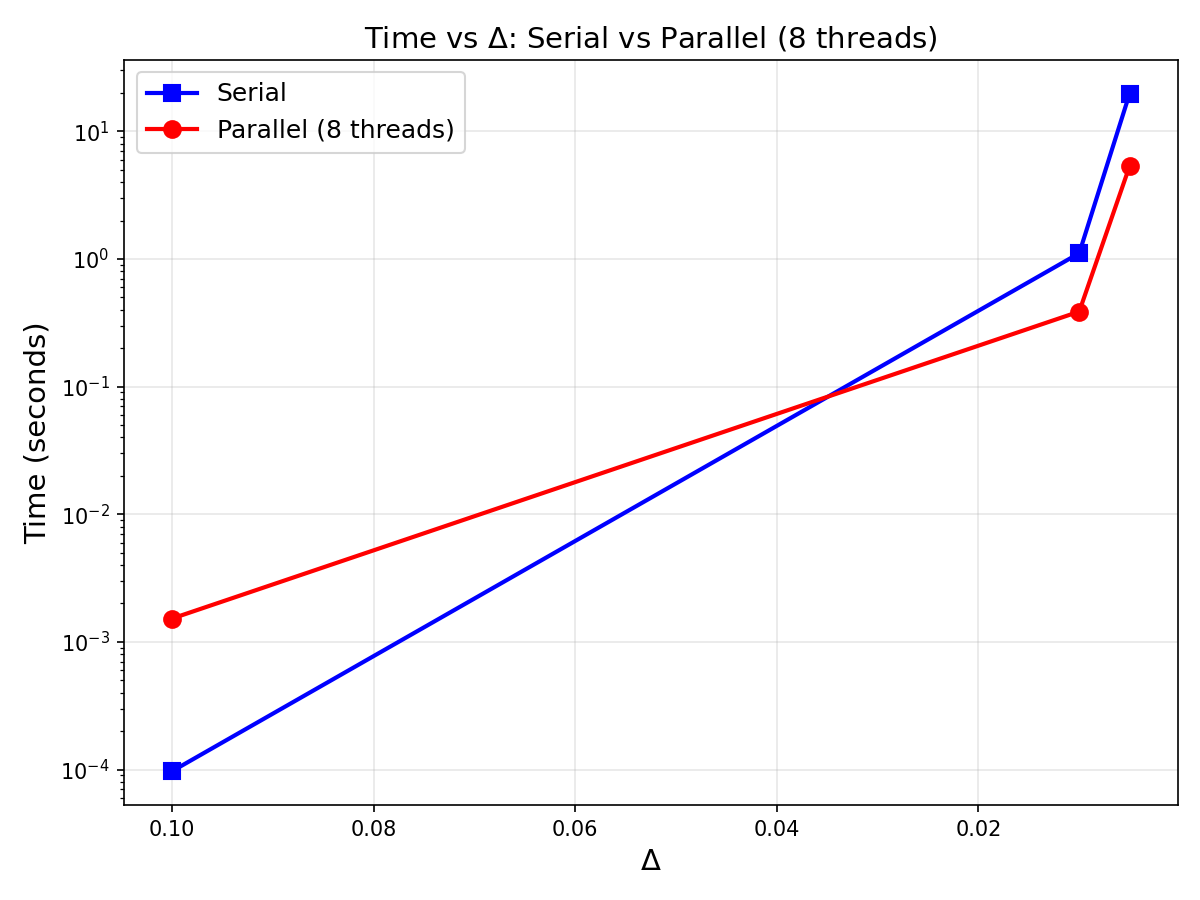
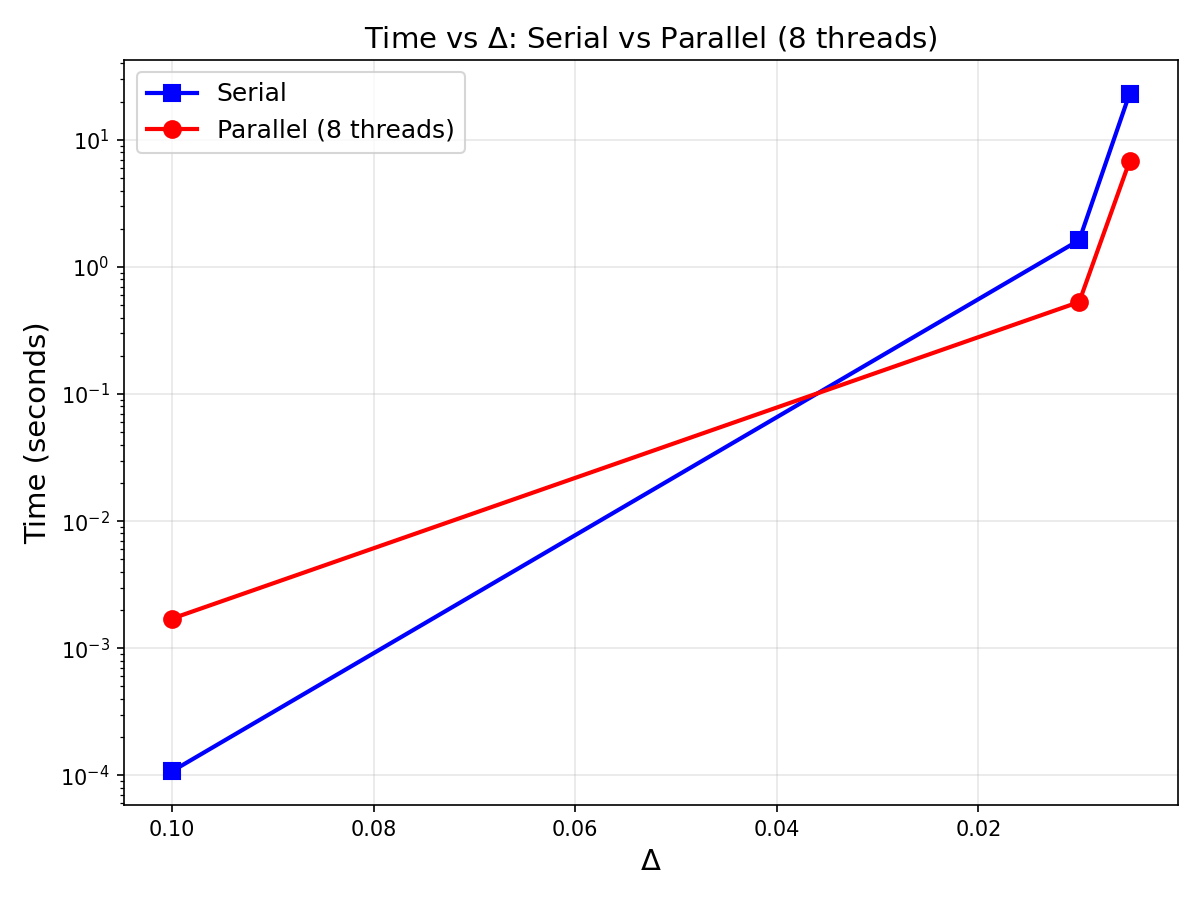
using chrono for serial

diff --git a/assignment/a1/q2/q2d.cpp b/assignment/a1/q2/q2d.cpp
@@ -1,5 +1,5 @@
-// q2d.cpp - Jacobi Solver Thread Scaling Study (Δ = 0.005)
-// Part (d): Time vs Number of Threads (p = 1(serial), 2, 4, 8, 16)
+// Jacobi Solver Thread Scaling Study (Δ = 0.005)
+// Part (d): Time vs Number of Threads (p = 2, 4, 8, 16)
 //
 // Compile: g++ -O2 -fopenmp q2d.cpp -o q2d
 // Run:     ./q2d
@@ -8,73 +8,9 @@
 #include <fstream>
 #include <cmath>
 #include <vector>
-#include <ctime>
 #include <omp.h>
 
 using namespace std;
-
-// Serial Jacobi solver (no OpenMP at all)
-int jacobi_serial(double delta, double &elapsed_time) {
-    int N = (int)(2.0 / delta) + 1;
-    double x_min = -1.0, y_min = -1.0;
-    double delta2_over4 = delta * delta / 4.0;
-
-    vector<vector<double>> phi(N, vector<double>(N, 0.0));
-    vector<vector<double>> phi_new(N, vector<double>(N, 0.0));
-    vector<vector<double>> q(N, vector<double>(N, 0.0));
-    vector<vector<double>> phi_exact(N, vector<double>(N, 0.0));
-
-    for (int i = 0; i < N; i++) {
-        double x = x_min + i * delta;
-        for (int j = 0; j < N; j++) {
-            double y = y_min + j * delta;
-            q[i][j] = 2.0 * (2.0 - x * x - y * y);
-            phi_exact[i][j] = (x * x - 1.0) * (y * y - 1.0);
-        }
-    }
-
-    int max_iter = 1000000;
-    int iter = 0;
-    int converged_flag = 0;
-
-    clock_t t_start = clock();
-
-    for (iter = 1; iter <= max_iter; iter++) {
-        for (int i = 1; i < N - 1; i++) {
-            for (int j = 1; j < N - 1; j++) {
-                phi_new[i][j] = 0.25 * (phi[i + 1][j] + phi[i - 1][j] +
-                                         phi[i][j + 1] + phi[i][j - 1]) +
-                                delta2_over4 * q[i][j];
-            }
-        }
-
-        converged_flag = 1;
-        for (int i = 1; i < N - 1 && converged_flag; i++) {
-            for (int j = 1; j < N - 1 && converged_flag; j++) {
-                double exact_val = phi_exact[i][j];
-                if (fabs(exact_val) > 1e-12) {
-                    if (fabs((phi_new[i][j] - exact_val) / exact_val) > 0.01)
-                        converged_flag = 0;
-                } else {
-                    if (fabs(phi_new[i][j] - exact_val) > 1e-12)
-                        converged_flag = 0;
-                }
-            }
-        }
-
-        for (int i = 1; i < N - 1; i++) {
-            for (int j = 1; j < N - 1; j++) {
-                phi[i][j] = phi_new[i][j];
-            }
-        }
-
-        if (converged_flag) break;
-    }
-
-    clock_t t_end = clock();
-    elapsed_time = (double)(t_end - t_start) / CLOCKS_PER_SEC;
-    return iter;
-}
 
 // Parallel Jacobi solver (OpenMP with specified threads)
 int jacobi_parallel(double delta, int num_threads, double &elapsed_time) {
@@ -150,13 +86,7 @@ int main() {
     outfile << scientific;
     outfile.precision(12);
 
-    // Serial run
-    double t_serial;
-    int iter_serial = jacobi_serial(delta, t_serial);
-    cout << "Serial: " << iter_serial << " iterations, " << t_serial << " s" << endl;
-    outfile << 1 << " " << t_serial << endl;
-
-    // Parallel runs
+    // Parallel runs only: p = 2, 4, 8, 16
     for (int t = 0; t < num_configs; t++) {
         double t_par;
         int iter_par = jacobi_parallel(delta, threads[t], t_par);

diff --git a/assignment/a1/q2/q2c.cpp b/assignment/a1/q2/q2c.cpp
@@ -1,4 +1,4 @@
-// q2c.cpp - Jacobi Solver for Poisson Equation (Serial + OpenMP Parallel)
+// Jacobi Solver for Poisson Equation (Serial + OpenMP Parallel)
 // Part (b): OpenMP Jacobi program
 // Part (c): Verification + Timing for Δ = 0.1, 0.01, 0.005
 //
@@ -12,7 +12,7 @@
 #include <fstream>
 #include <cmath>
 #include <vector>
-#include <ctime>
+#include <chrono>
 
 #ifdef _OPENMP
 #include <omp.h>
@@ -47,11 +47,11 @@ int jacobi_solve(double delta, double &elapsed_time,
     int iter = 0;
     int converged_flag = 0;
 
-    // Start timing
+    // Start timing: chrono for serial build, omp_get_wtime for OpenMP build
 #ifdef _OPENMP
     double t_start = omp_get_wtime();
 #else
-    clock_t t_start = clock();
+    auto t_start = chrono::steady_clock::now();
 #endif
 
     for (iter = 1; iter <= max_iter; iter++) {
@@ -94,13 +94,13 @@ int jacobi_solve(double delta, double &elapsed_time,
         if (converged_flag) break;
     }
 
-    // End timing
+    // End timing: chrono for serial build, omp_get_wtime for OpenMP build
 #ifdef _OPENMP
     double t_end = omp_get_wtime();
     elapsed_time = t_end - t_start;
 #else
-    clock_t t_end = clock();
-    elapsed_time = (double)(t_end - t_start) / CLOCKS_PER_SEC;
+    auto t_end = chrono::steady_clock::now();
+    elapsed_time = chrono::duration<double>(t_end - t_start).count();
 #endif
 
     phi_out = phi;
@@ -170,6 +170,10 @@ int main() {
     }
 
     outfile.close();
-    cout << "Data written to q2c_data.txt" << endl;
+#ifdef _OPENMP
+    cout << "Data written to q2c_parallel_data.txt" << endl;
+#else
+    cout << "Data written to q2c_serial_data.txt" << endl;
+#endif
     return 0;
 }

diff --git a/assignment/a1/q2/q2dplot.py b/assignment/a1/q2/q2dplot.py
@@ -19,12 +19,8 @@ for line in lines:
 threads = np.array(threads)
 times = np.array(times)
 
-# Separate serial (threads==1) and parallel
-serial_time = times[0]  # threads=1 is serial
-
 plt.figure(figsize=(8, 6))
-plt.plot(threads, times, 'bo-', linewidth=2, markersize=8, label='Measured Time')
-plt.axhline(y=serial_time, color='r', linestyle='--', linewidth=1.5, label=f'Serial Time ({serial_time:.2f}s)')
+plt.plot(threads, times, 'bo-', linewidth=2, markersize=8, label='Parallel Time')
 plt.xlabel('Number of Threads', fontsize=14)
 plt.ylabel('Time (seconds)', fontsize=14)
 plt.title(r'Time vs Number of Threads ($\Delta = 0.005$)', fontsize=14)
@@ -38,7 +34,6 @@ print("Saved q2d_plot.png")
 
 # Print summary
 print("\nThread Scaling Summary (delta=0.005):")
-print(f"{'Threads':<10} {'Time (s)':<15} {'Speedup':<10}")
+print(f"{'Threads':<10} {'Time (s)':<15}")
 for i in range(len(threads)):
-    speedup = serial_time / times[i] if times[i] > 0 else 0
-    print(f"{threads[i]:<10} {times[i]:<15.4f} {speedup:<10.2f}")
+    print(f"{threads[i]:<10} {times[i]:<15.4f}")

diff --git a/assignment/a1/q1/q1a.cpp b/assignment/a1/q1/q1a.cpp
@@ -1,4 +1,4 @@
-// q1a.cpp - Riemann Integration (Serial + OpenMP Parallel)
+// Riemann Integration (Serial + OpenMP Parallel)
 // Integral: I = ∫₀⁴∫₀³∫₀² (4x³ + xy² + 5y + yz + 6z) dz dy dx
 //
 // Compile serial:   g++ -O2 q1a.cpp -o q1a_serial
@@ -60,7 +60,7 @@ int main() {
     clock_t t_start = clock();
 #endif
 
-    // Riemann sum: use midpoint rule for better accuracy
+    // Riemann sum: using midpoint rule for better accuracy
     // x*_ijk = X_MIN + (i + 0.5) * dx, etc.
 #pragma omp parallel for reduction(+:sum) collapse(3)
     for (int i = 0; i < Nx; i++) {

diff --git a/assignment/a1/q1/q1b.cpp b/assignment/a1/q1/q1b.cpp
@@ -1,4 +1,4 @@
-// q1b.cpp - Monte Carlo Integration (Serial + OpenMP Parallel)
+// Monte Carlo Integration (Serial + OpenMP Parallel)
 // Integral: I = ∫₀⁴∫₀³∫₀² (4x³ + xy² + 5y + yz + 6z) dz dy dx
 //
 // Compile serial:   g++ -O2 q1b.cpp -o q1b_serial
